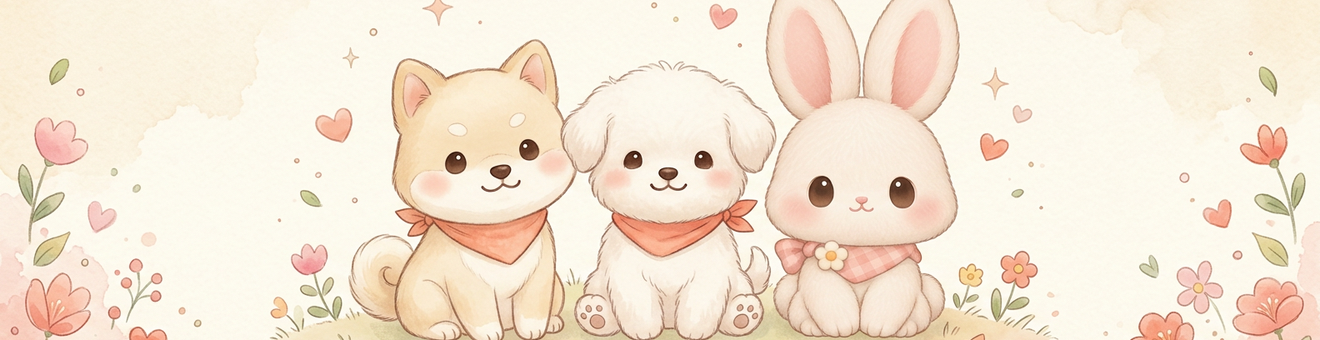
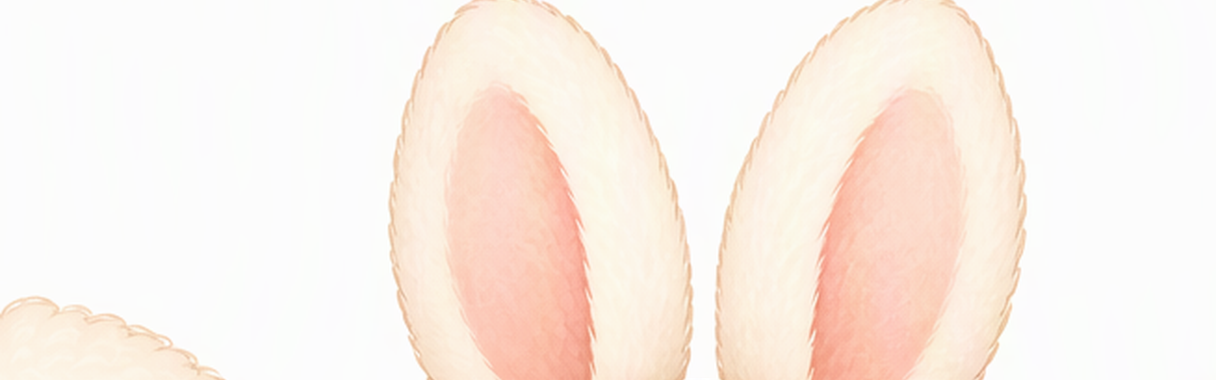
feat: 教程素材全面升级（Meowa Image-2/gpt2.0 三单）——用户令「emoji 全换生成素材+兔耳修完整+字号按键和谐+三宠居中」；①hero 重生成（16:9 四象限出图，q1 胜出：兔长耳完整+花草地面），白边裁切 1216×380→608×192 显示；②六页 emoji→水彩图标表（4x2 拆格：鼠标/花朵/小屋/爪印对话泡/名牌，176² 88 显示，缺素材回退 emoji）；③字号和谐化降一档（题 27/文 21/键 20/进度 17 统一比例）；④三宠头像钮居中（双侧 stretch）；按钮保留 QSS 渐变胶囊（水彩按钮素材带装饰花拉伸会糊，评估后弃用）；

diff --git a/petpet/ui/tutorial.py b/petpet/ui/tutorial.py
@@ -18,6 +18,16 @@ from petpet.app import pets as pet_registry
 from petpet.ui.common import KeepAliveTopLevelWindow
 from petpet.ui.common import independent_pixel_font
 
+# 2026-10-15 素材升级：emoji→Meowa Image-2 生成图标（缺素材回退 emoji）
+TUTORIAL_PAGE_ICONS = {
+    1: "tutorial_icon_mouse.png",
+    2: "tutorial_icon_flower.png",
+    3: "tutorial_icon_house.png",
+    4: "tutorial_icon_chat.png",
+    5: "tutorial_icon_paw.png",
+    6: "tutorial_icon_nametag.png",
+}
+
 TUTORIAL_PAGES = (
     (
         "🐶",
@@ -80,7 +90,7 @@ class TutorialWindow(KeepAliveTopLevelWindow):
         self.setAttribute(Qt.WA_DeleteOnClose, False)
         self.setObjectName("tutorialWindow")
         self.setWindowTitle("初次见面 · 新手教程")
-        self.setFixedSize(740, 660)
+        self.setFixedSize(740, 700)
         self.setStyleSheet("""
             QWidget#tutorialWindow {
                 background:transparent;
@@ -196,7 +206,7 @@ QPushButton {
 
         top = QHBoxLayout()
         brand = QLabel("🌼 Pet陪它 · 新手教程")
-        brand.setFont(independent_pixel_font(18, QFont.Bold))
+        brand.setFont(independent_pixel_font(17, QFont.Bold))
         brand.setStyleSheet("font-weight:900; color:#93624f;")
         self.later_button = FeedbackButton("稍后再说")
         self.later_button.setObjectName("later")
@@ -212,12 +222,13 @@ QPushButton {
         self.hero_label = QLabel()
         self.hero_label.setObjectName("tutorialHero")
         self.hero_label.setAlignment(Qt.AlignCenter)
-        self.hero_label.setFixedSize(608, 160)
+        self.hero_label.setFixedSize(608, 192)
         root.addWidget(self.hero_label)
 
         self.icon_label = QLabel()
         self.icon_label.setObjectName("tutorialIcon")
         self.icon_label.setAlignment(Qt.AlignCenter)
+        self.icon_label.setFixedSize(646, 96)
         root.addWidget(self.icon_label)
 
         self.title_label = QLabel()
@@ -266,7 +277,7 @@ QPushButton {
         self.pet_info_label.setAlignment(Qt.AlignCenter)
         self.pet_info_label.setWordWrap(True)
         self.pet_info_label.setMinimumHeight(46)
-        self.pet_info_label.setFont(independent_pixel_font(19))
+        self.pet_info_label.setFont(independent_pixel_font(18))
         chooser_layout.addLayout(self.pet_chooser_row)
         chooser_layout.addWidget(self.pet_info_label)
         root.addWidget(self.chooser_card)
@@ -325,14 +336,14 @@ QPushButton {
         self._hero_pixmap = (
             _QPM(_hero_path) if _os.path.exists(_hero_path) else _QPM())
 
-        self.icon_label.setFont(independent_pixel_font(80))
-        self.title_label.setFont(independent_pixel_font(31, QFont.Bold))
-        self.body_label.setFont(independent_pixel_font(23))
-        self.progress_label.setFont(independent_pixel_font(20, QFont.Bold))
-        self.name_input.setFont(independent_pixel_font(23))
-        self.name_hint.setFont(independent_pixel_font(20, QFont.Bold))
+        self.icon_label.setFont(independent_pixel_font(64))
+        self.title_label.setFont(independent_pixel_font(27, QFont.Bold))
+        self.body_label.setFont(independent_pixel_font(21))
+        self.progress_label.setFont(independent_pixel_font(17, QFont.Bold))
+        self.name_input.setFont(independent_pixel_font(22))
+        self.name_hint.setFont(independent_pixel_font(18, QFont.Bold))
         for button in (self.later_button, self.back_button, self.next_button):
-            button.setFont(independent_pixel_font(22, QFont.Bold))
+            button.setFont(independent_pixel_font(20, QFont.Bold))
 
         self._refresh_page()
 
@@ -377,7 +388,11 @@ QPushButton {
         is_last = self.page_index == len(self.pages) - 1
         is_chooser = (
             len(self.pages) == 7 and self.page_index == len(self.pages) - 2)
-        self.icon_label.setText(emoji)
+        icon_pixmap = self._page_icon_pixmap(self.page_index)
+        if icon_pixmap is not None and not icon_pixmap.isNull():
+            self.icon_label.setPixmap(icon_pixmap)
+        else:
+            self.icon_label.setText(emoji)
         self.title_label.setText(title)
         self.body_label.setText(body)
         self.name_card.setVisible(is_last and len(self.pages) == 7)
@@ -393,7 +408,7 @@ QPushButton {
         if hero_active:
             from PyQt5.QtCore import Qt as _Qt
             self.hero_label.setPixmap(hero.scaled(
-                600, 150, _Qt.KeepAspectRatio,
+                596, 186, _Qt.KeepAspectRatio,
                 _Qt.SmoothTransformation))
         self.icon_label.setVisible(not is_chooser and not hero_active)
         self.back_button.setVisible(self.page_index > 0)
@@ -417,6 +432,25 @@ QPushButton {
             self.page_index -= 1
             self.name_hint.clear()
             self._refresh_page()
+
+    def _page_icon_pixmap(self, page_index):
+        """页图标素材（Meowa 生成）；缺素材返回 None 回退 emoji。"""
+        from petpet.app.paths import ASSETS_DIR as _ASSETS
+        import os as _os
+        name = TUTORIAL_PAGE_ICONS.get(page_index)
+        if not name:
+            return None
+        cache = getattr(self, "_page_icon_cache", None)
+        if cache is None:
+            cache = self._page_icon_cache = {}
+        if name not in cache:
+            path = _os.path.join(_ASSETS, "ui", "tutorial", name)
+            from PyQt5.QtGui import QPixmap as _QPM
+            cache[name] = (
+                _QPM(path).scaled(
+                    88, 88, Qt.KeepAspectRatio, Qt.SmoothTransformation)
+                if _os.path.exists(path) else _QPM())
+        return cache[name] or None
 
     def _select_starter(self, pet_id):
         """选宠页：点亮头像 + 展示基本信息。"""

diff --git a/tests/test_onboarding.py b/tests/test_onboarding.py
@@ -108,9 +108,9 @@ class OnboardingTests(unittest.TestCase):
         )
         self.addCleanup(window.close)
         # 2026-10-15 布局优化：内容余量加高 620→660
-        self.assertEqual((window.width(), window.height()), (740, 660))
+        self.assertEqual((window.width(), window.height()), (740, 700))  # 2026-10-15 hero 加高
         self.assertIn("QLabel#tutorialBody", window.styleSheet())
-        self.assertEqual(window.body_label.font().pixelSize(), 23)
+        self.assertEqual(window.body_label.font().pixelSize(), 21)  # 2026-10-15 字号和谐化
         window.page_index = len(window.PAGES) - 1
         window._refresh_page()
         window.name_input.setText("!!!")
@@ -129,9 +129,9 @@ class OnboardingTests(unittest.TestCase):
         self.assertIsNotNone(window.findChild(QFrame, "tutorialCard"))
         title = window.findChild(QLabel, "tutorialTitle")
         body = window.findChild(QLabel, "tutorialBody")
-        self.assertEqual(title.font().pixelSize(), 31)
-        self.assertEqual(body.font().pixelSize(), 23)
-        self.assertEqual(window.next_button.font().pixelSize(), 22)
+        self.assertEqual(title.font().pixelSize(), 27)
+        self.assertEqual(body.font().pixelSize(), 21)
+        self.assertEqual(window.next_button.font().pixelSize(), 20)
         window.show()
         QApplication.processEvents()
         image = window.grab().toImage().convertToFormat(QImage.Format_ARGB32)

diff --git a/tests/test_menu_ui.py b/tests/test_menu_ui.py
@@ -369,7 +369,7 @@ class MenuUiTests(unittest.TestCase):
 
         tutorial.start()
 
-        self.assertEqual(tutorial.pos(), QPoint(590, 210))  # 2026-10-15 窗高 620→660
+        self.assertEqual(tutorial.pos(), QPoint(590, 190))  # 2026-10-15 窗高 620→660
         pet_host.interface_screen_rect.assert_called_once_with()
 
     def test_pet_outside_actual_screens_is_not_visible(self):
